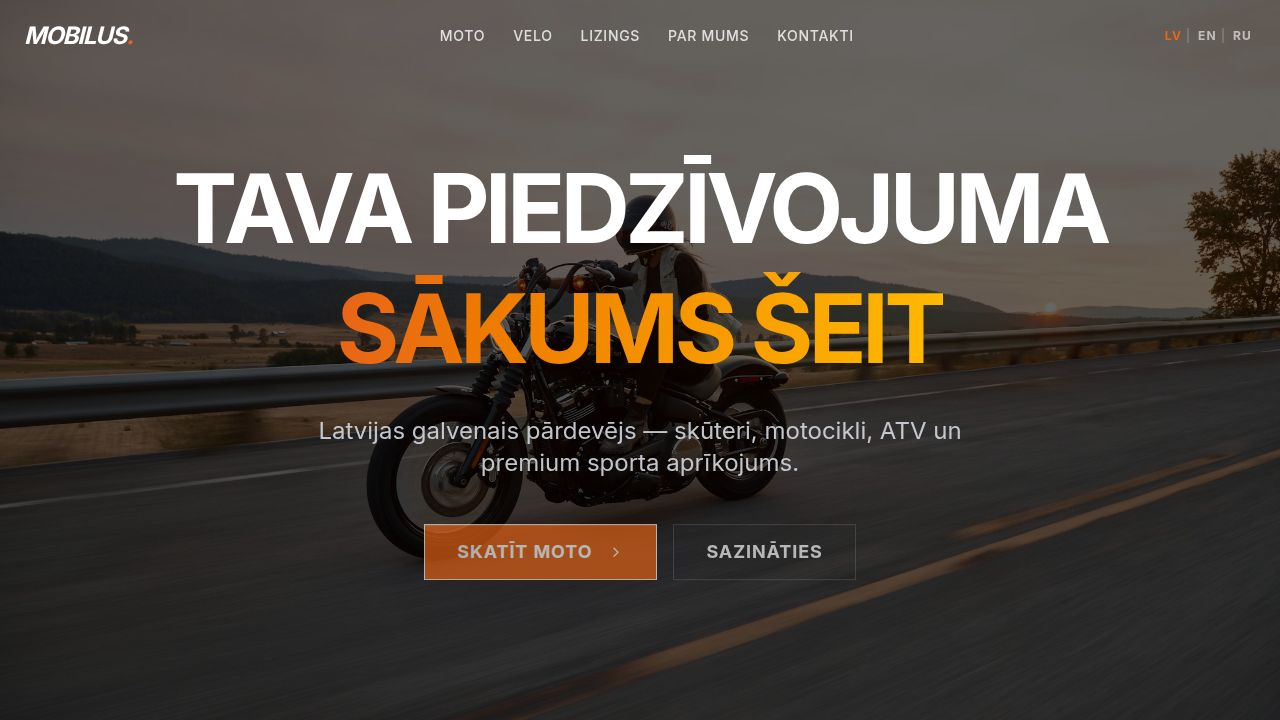
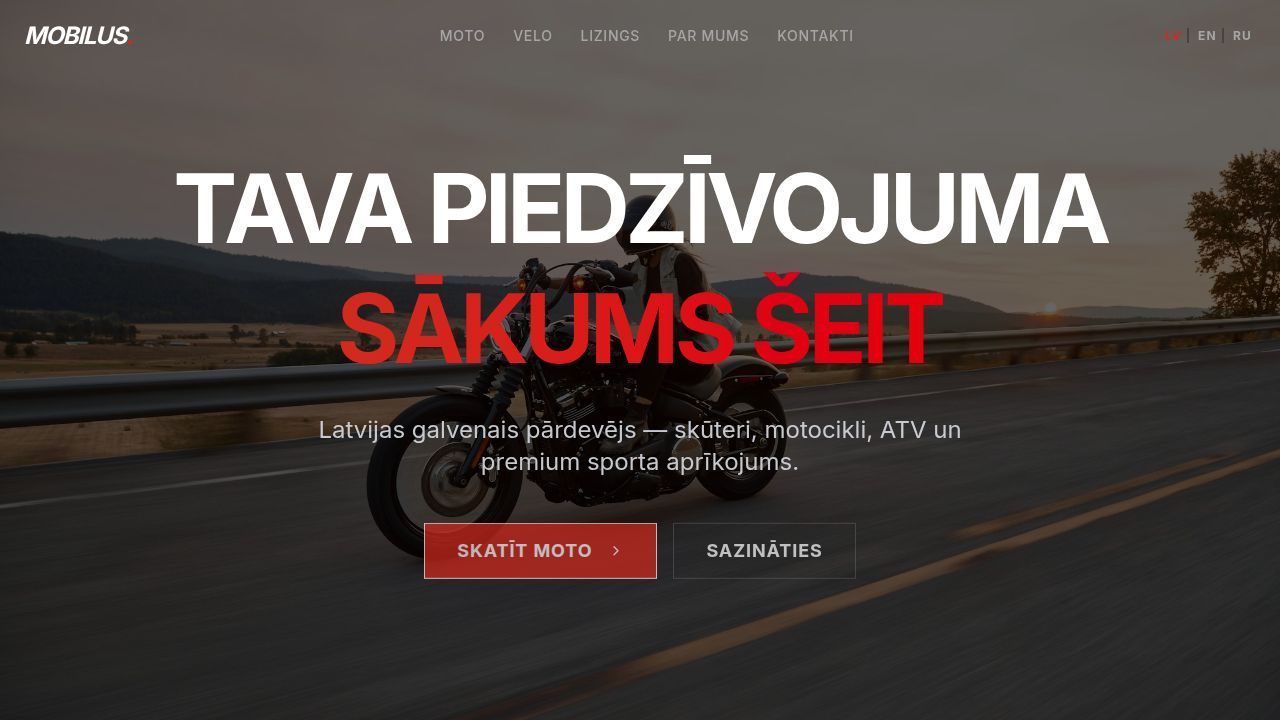
Keep product images in sync when editing a color variant
## Task
When a product has color variants, products.image (used for product cards) was
stored separately from the variant images, causing inconsistency if the admin
updated a variant's image but the product-level image stayed the same.

## Changes

### API (artifacts/api-server/src/routes/products.ts)
- POST /products: After inserting all variants inside the transaction, if the
  first variant has an image, update products.image to match it before
  returning. This ensures new products with variants always have a synced image.
- PUT /products/:id: Same logic — after re-inserting variants (or loading
  existing ones), if variants[0].image exists, update products.image to match
  within the same transaction.

### Admin form (artifacts/mobilus-website/src/pages/admin.tsx)
- Basic Info tab: When variantItems.length > 0, the "Image URL" input is
  replaced with a read-only preview box that shows the first variant's image
  and URL, with an amber label "— auto-synced from first color variant" and a
  note directing the admin to set the image in the Colors tab instead.
- When no variants exist, the Image URL field behaves exactly as before.

## Approach
Implemented both options from the task spec: API-level auto-sync (primary) and
admin form UX clarity (secondary). The API sync happens inside the transaction
so it is atomic. The form UX prevents the admin from setting a conflicting
product-level image when variants are present.
[…]

diff --git a/artifacts/mobilus-website/src/pages/admin.tsx b/artifacts/mobilus-website/src/pages/admin.tsx
@@ -773,13 +773,50 @@ export default function AdminPage() {
                     <Input value={form.badge ?? ""} onChange={(e) => setField("badge", e.target.value || null)} className="rounded-none" placeholder="e.g. POPULĀRS / -10%" />
                   </div>
                   <div className="col-span-2">
-                    <label className="block text-xs text-muted-foreground mb-1">Image URL</label>
-                    <Input value={form.image} onChange={(e) => setField("image", e.target.value)} className="rounded-none font-mono text-sm" placeholder="https://..." />
-                    {form.image && (
-                      <img src={form.image} alt="preview" className="mt-2 h-20 object-contain bg-white/5 rounded"
-                        onError={(e) => { (e.target as HTMLImageElement).style.display = "none"; }}
-                        referrerPolicy="no-referrer"
-                      />
+                    <label className="block text-xs text-muted-foreground mb-1">
+                      Image URL
+                      {variantItems.length > 0 && (
+                        <span className="ml-2 text-amber-400/80 normal-case font-normal">
+                          — auto-synced from first color variant
+                        </span>
+                      )}
+                    </label>
+                    {variantItems.length > 0 ? (
+                      <div className="border border-white/10 bg-white/3 px-3 py-2 rounded-none">
+                        <div className="flex items-center gap-3">
+                          {variantItems[0].image ? (
+                            <img
+                              src={variantItems[0].image}
+                              alt="first variant preview"
+                              className="h-14 w-20 object-contain bg-white/5 flex-shrink-0"
+                              onError={(e) => { (e.target as HTMLImageElement).style.opacity = "0.2"; }}
+                              referrerPolicy="no-referrer"
+                            />
+                          ) : (
+                            <div className="h-14 w-20 bg-white/5 flex-shrink-0 flex items-center justify-center">
+                              <span className="text-xs text-muted-foreground">No image</span>
+                            </div>
+                          )}
+                          <div className="min-w-0">
+                            <p className="text-xs text-muted-foreground font-mono truncate">
+                              {variantItems[0].image || "—"}
+                            </p>
+                            <p className="text-xs text-amber-400/70 mt-1">
+                              Set this in the Colors tab on the first variant.
+                            </p>
+                          </div>
+                        </div>
+                      </div>
+                    ) : (
+                      <>
+                        <Input value={form.image} onChange={(e) => setField("image", e.target.value)} className="rounded-none font-mono text-sm" placeholder="https://..." />
+                        {form.image && (
+                          <img src={form.image} alt="preview" className="mt-2 h-20 object-contain bg-white/5 rounded"
+                            onError={(e) => { (e.target as HTMLImageElement).style.display = "none"; }}
+                            referrerPolicy="no-referrer"
+                          />
+                        )}
+                      </>
                     )}
                   </div>
                 </div>

diff --git a/artifacts/api-server/src/routes/products.ts b/artifacts/api-server/src/routes/products.ts
@@ -99,6 +99,14 @@ router.post("/products", requireAdmin, async (req, res) => {
         const [variant] = await tx.insert(productVariantsTable).values({ ...v, productId: product.id }).returning();
         variants.push(variant);
       }
+      if (variants.length > 0 && variants[0].image) {
+        const [updated] = await tx
+          .update(productsTable)
+          .set({ image: variants[0].image })
+          .where(eq(productsTable.id, product.id))
+          .returning();
+        return { ...updated, variants };
+      }
       return { ...product, variants };
     });
 
@@ -158,6 +166,14 @@ router.put("/products/:id", requireAdmin, async (req, res) => {
           .from(productVariantsTable)
           .where(eq(productVariantsTable.productId, id))
           .orderBy(productVariantsTable.id);
+      }
+      if (variants.length > 0 && variants[0].image) {
+        const [synced] = await tx
+          .update(productsTable)
+          .set({ image: variants[0].image })
+          .where(eq(productsTable.id, id))
+          .returning();
+        return { ...synced, variants };
       }
       return { ...product, variants };
     });